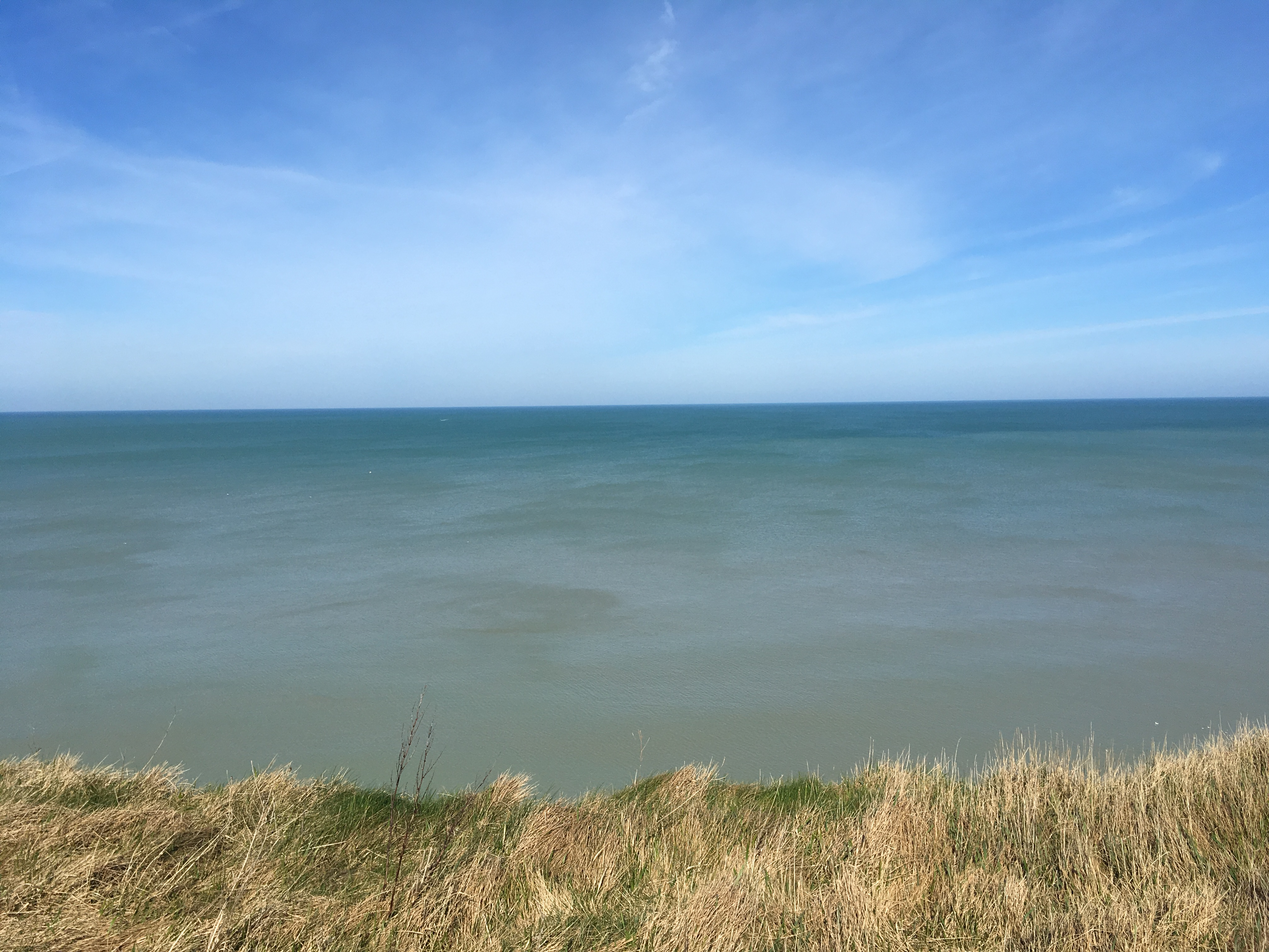
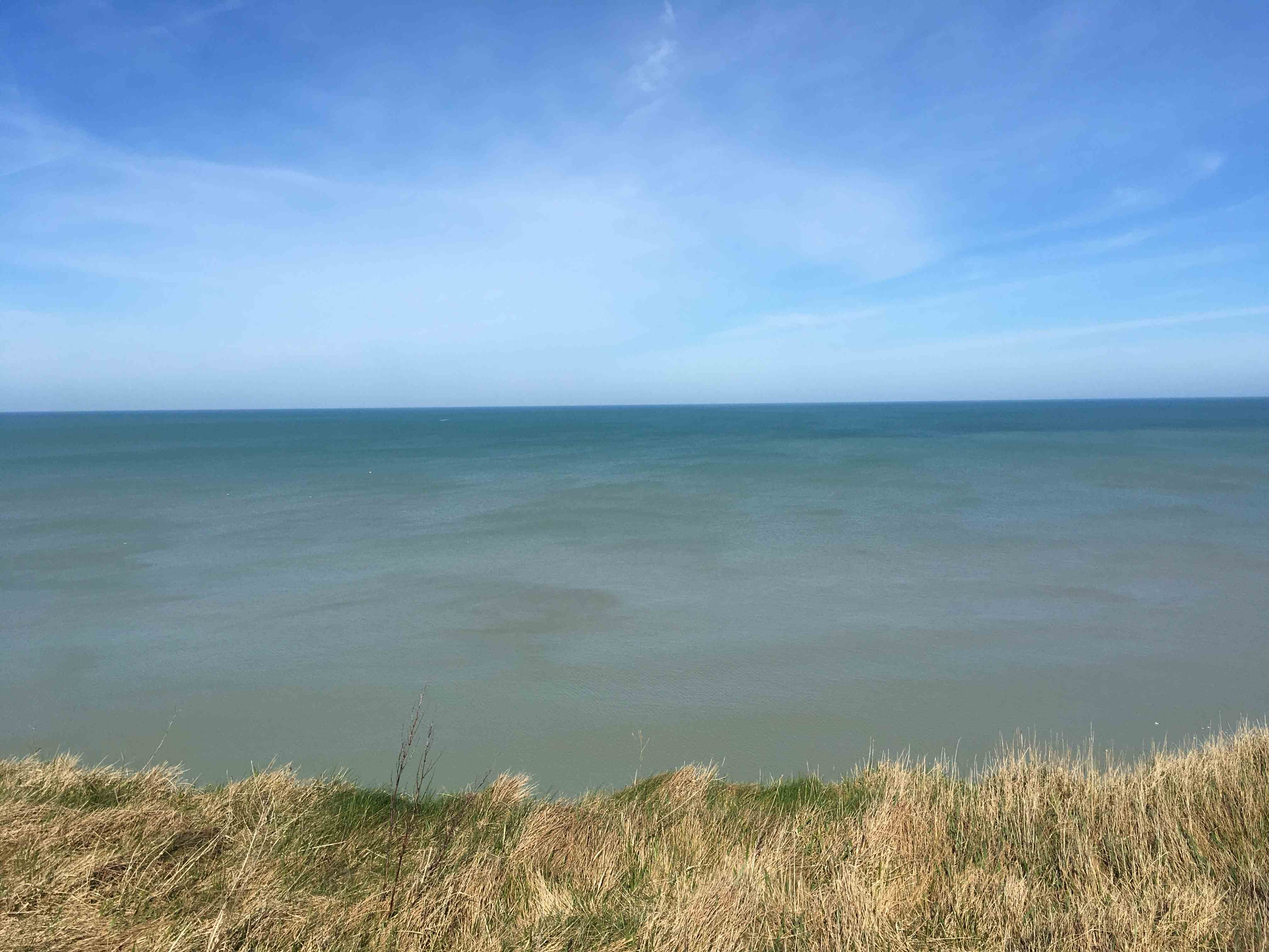
veules

diff --git a/src/app/components/accueil/accueil.component.html b/src/app/components/accueil/accueil.component.html
@@ -102,7 +102,7 @@
     <div class="veules diapo">
         <div class="up">
             <div class="photo">
-                <a routerLink="/veules"><img src="assets/img/veules/ve01.jpg"></a>
+                <a routerLink="/veules"><img src="assets/img/veules/ve01min.jpg"></a>
             </div>
         </div>
         <div class="down">

diff --git a/src/app/components/belleville/belleville.component.css b/src/app/components/belleville/belleville.component.css
@@ -1,3 +1,4 @@
+@import url('https://fonts.googleapis.com/css?family=Parisienne');
 img {
     width: 80vw;
     height: 80vh;

diff --git a/src/app/components/berneval/berneval.component.css b/src/app/components/berneval/berneval.component.css
@@ -1,3 +1,4 @@
+@import url('https://fonts.googleapis.com/css?family=Parisienne');
 img {
     width: 80vw;
     height: 80vh;

diff --git a/src/app/components/dieppe/dieppe.component.css b/src/app/components/dieppe/dieppe.component.css
@@ -1,3 +1,4 @@
+@import url('https://fonts.googleapis.com/css?family=Parisienne');
 img {
     width: 80vw;
     height: 80vh;

diff --git a/src/app/components/le-treport/le-treport.component.css b/src/app/components/le-treport/le-treport.component.css
@@ -1,3 +1,4 @@
+@import url('https://fonts.googleapis.com/css?family=Parisienne');
 img {
     width: 80vw;
     height: 80vh;

diff --git a/src/app/components/quiberville/quiberville.component.css b/src/app/components/quiberville/quiberville.component.css
@@ -1,3 +1,4 @@
+@import url('https://fonts.googleapis.com/css?family=Parisienne');
 img {
     width: 80vw;
     height: 80vh;

diff --git a/src/app/components/sotteville/sotteville.component.css b/src/app/components/sotteville/sotteville.component.css
@@ -1,3 +1,4 @@
+@import url('https://fonts.googleapis.com/css?family=Parisienne');
 img {
     width: 80vw;
     height: 80vh;

diff --git a/src/app/components/varengeville/varengeville.component.css b/src/app/components/varengeville/varengeville.component.css
@@ -1,3 +1,4 @@
+@import url('https://fonts.googleapis.com/css?family=Parisienne');
 img {
     width: 80vw;
     height: 80vh;

diff --git a/src/app/components/veules/veules.component.css b/src/app/components/veules/veules.component.css
@@ -1,3 +1,4 @@
+@import url('https://fonts.googleapis.com/css?family=Parisienne');
 img {
     width: 80vw;
     height: 80vh;
